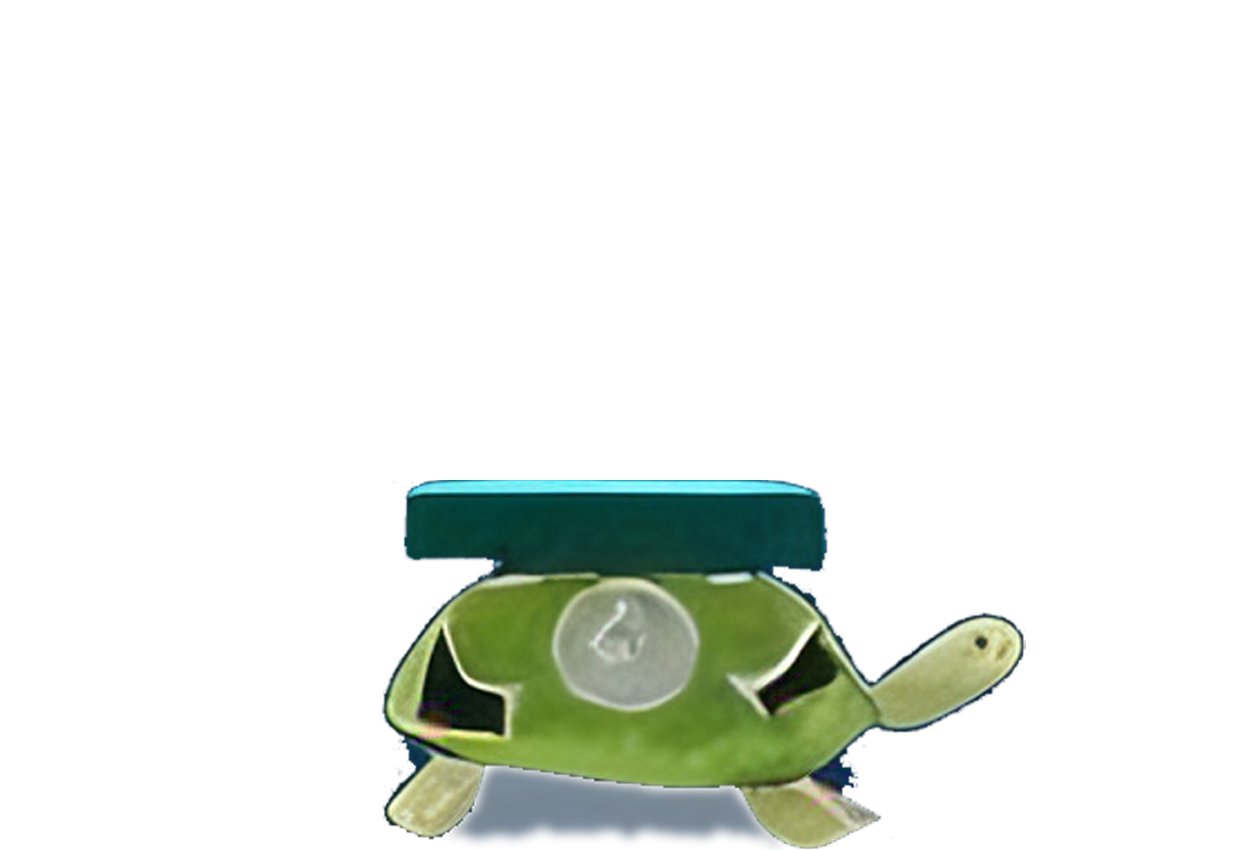
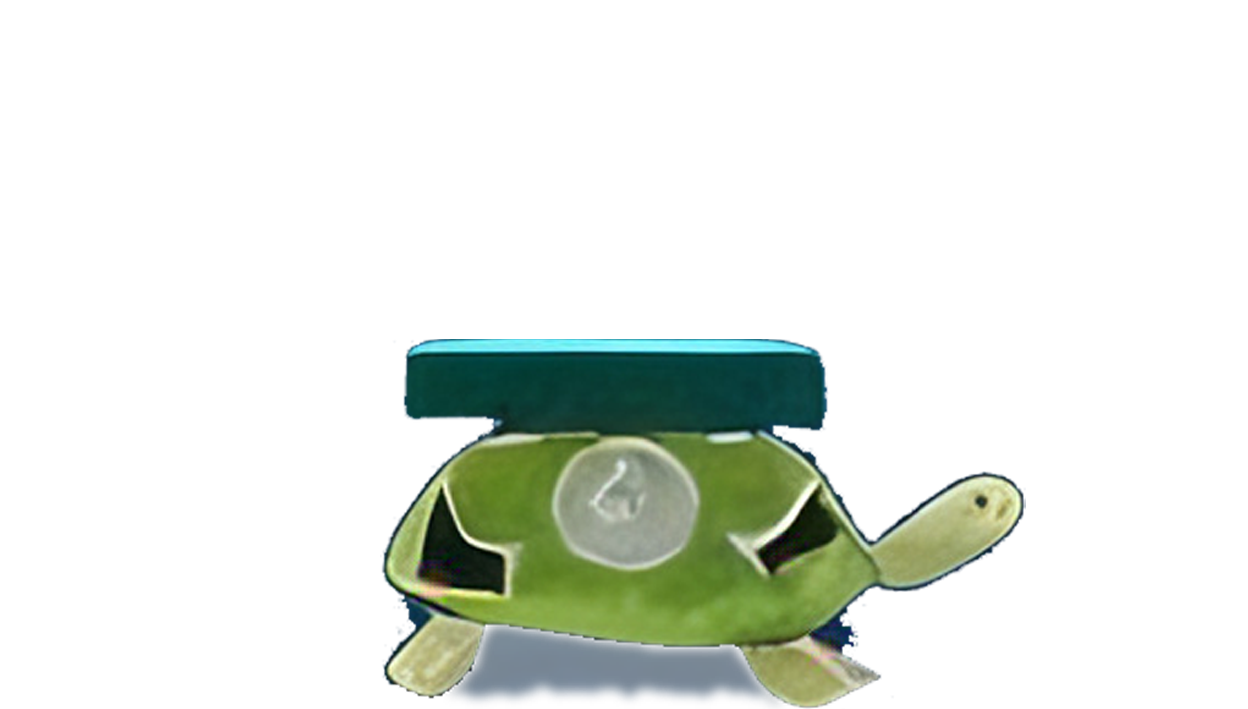
CSS: Add mascot above the footer on each page.

Changed region(s): [[0.2812, 0.4654, 0.8438, 0.9929]]

diff --git a/TWK_library.css b/TWK_library.css
@@ -279,6 +279,31 @@
 
 .also-like-char img { max-height: 220px; object-fit: contain; }
 
+
+.mascot-section {
+    position: relative;
+    height: fit-content;
+    margin: 0;
+    padding: 0;
+}
+
+.mascot-goose {
+  background: var(--crimson);
+  text-align: center;
+  position: relative;;
+  height: fit-content;
+  bottom: 0;
+  margin: 0 !important;
+  padding: 0 !important;
+}
+
+.mascot-goose img {
+  height: 10rem;
+  margin: 0 auto;
+  display: block;
+}
+
+
 @media (max-width: 900px) {
   .library-layout { flex-direction: column; padding: 1.5rem 1rem; }
   .sidebar { position: static; flex: none; width: 100%; flex-direction: row; flex-wrap: wrap; gap: 0.8rem; }

diff --git a/TKW_CartPurchase.css b/TKW_CartPurchase.css
@@ -478,6 +478,28 @@
 
 .place-order-terms a { color: var(--crimson); }
 
+.mascot-section {
+    position: relative;
+    height: fit-content;
+    margin: 0;
+    padding: 0;
+}
+
+.mascot-goose {
+  text-align: center;
+  position: relative;;
+  height: fit-content;
+  bottom: 0;
+  margin: 0 !important;
+  padding: 0 !important;
+}
+
+.mascot-goose img {
+  height: 10rem;
+  margin: 0 auto;
+  display: block;
+}
+
 @media (max-width: 768px) {
   .cart-layout { flex-direction: column; padding: 1.5rem 1rem; }
   .cart-right { flex: none; width: 100%; position: static; }

diff --git a/TKW_product.css b/TKW_product.css
@@ -346,6 +346,28 @@
   color: var(--gray);
 }
 
+.mascot-turtle-section {
+    position: relative;
+    height: fit-content;
+    margin: 0;
+    padding: 0;
+}
+
+.mascot-turtle {
+  background: var(--crimson);
+  text-align: center;
+  position: relative;;
+  height: fit-content;
+  bottom: 0;
+  margin: 0 !important;
+  padding: 0 !important;
+}
+
+.mascot-turtle img {
+  height: 10rem;
+  margin: 0 auto;
+  display: block;
+}
 
 @media (max-width: 900px) {
   .product-section { flex-direction: column; gap: 2rem; }

diff --git a/TKW_HomePage.html b/TKW_HomePage.html
@@ -110,12 +110,7 @@
     <a href="TKW_About.html" class="btn-primary">Visit Us</a>
   </section>
 
-  <!-- Wave up into dark section/externalReference -->
-  <div class="wave-top" style="transform:rotate(180deg); margin-bottom:-2px;">
-    <svg viewBox="0 0 1440 80" xmlns="http://www.w3.org/2000/svg" preserveAspectRatio="none">
-      <path d="M0,40 C360,80 1080,0 1440,40 L1440,80 L0,80 Z" fill="#8B1A2B"/>
-    </svg>
-  </div>
+
 
   <!-- ONLINE STORE SECTION -->
   <section class="online-store-section">

diff --git a/TKW_Purchase_AShipping.html b/TKW_Purchase_AShipping.html
@@ -205,6 +205,10 @@
 
   </div>
 
+  <section class="mascot-goose">
+    <img src="TKW Image Sources/goose.png" alt="Goose mascot" />
+  </section>  
+
   <!-- FOOTER -->
   <footer class="site-footer">
     <div class="footer-main">

diff --git a/TKW_Purchase_CReview.html b/TKW_Purchase_CReview.html
@@ -216,6 +216,10 @@
     </div>
   </section>
 
+  <section class="mascot-goose">
+    <img src="TKW Image Sources/goose.png" alt="Goose mascot" />
+  </section>  
+
 <!-- FOOTER -->
   <footer class="site-footer">
     <div class="footer-main">

diff --git a/TKW_ShoppingCart.html b/TKW_ShoppingCart.html
@@ -157,6 +157,10 @@
     </div>
   </section>
 
+  <section class="mascot-goose">
+    <img src="TKW Image Sources/goose.png" alt="Goose mascot" /><style> .mascot-goose { background: var(--crimson); } </style>
+  </section>  
+
   <!-- FOOTER -->
   <footer class="site-footer">
     <div class="footer-main">

diff --git a/TKW_library.html b/TKW_library.html
@@ -324,6 +324,10 @@
       </div>
     </div>
   </section>
+  
+  <section class="mascot-goose">
+    <img src="TKW Image Sources/goose.png" alt="Goose mascot" />
+  </section>  
 
   <!-- FOOTER -->
   <footer class="site-footer">

diff --git a/TKW_product-hispeppa.html b/TKW_product-hispeppa.html
@@ -203,6 +203,10 @@
     </div>
   </section>
 
+  <section class="mascot-turtle">
+    <img src="TKW Image Sources/turtle.png" alt="Turtle mascot" />
+  </section>  
+  
   <!-- FOOTER -->
   <footer class="site-footer">
     <div class="footer-main">

diff --git a/TKW_product-mathteacher.html b/TKW_product-mathteacher.html
@@ -200,6 +200,10 @@
     </div>
   </section>
 
+  <section class="mascot-turtle">
+    <img src="TKW Image Sources/turtle.png" alt="Turtle mascot" />
+  </section>  
+  
   <!-- FOOTER -->
   <footer class="site-footer">
     <div class="footer-main">

diff --git a/TKW_product-midnight.html b/TKW_product-midnight.html
@@ -200,6 +200,10 @@
     </div>
   </section>
 
+  <section class="mascot-turtle">
+    <img src="TKW Image Sources/turtle.png" alt="Turtle mascot" />
+  </section>  
+
   <!-- FOOTER -->
   <footer class="site-footer">
     <div class="footer-main">

diff --git a/TKW_product-mypeppa.html b/TKW_product-mypeppa.html
@@ -201,6 +201,10 @@
     </div>
   </section>
 
+  <section class="mascot-turtle">
+    <img src="TKW Image Sources/turtle.png" alt="Turtle mascot" />
+  </section>  
+
   <!-- FOOTER -->
   <footer class="site-footer">
     <div class="footer-main">